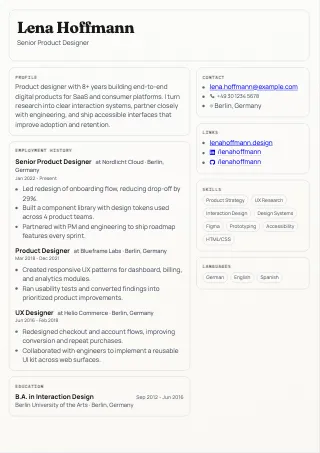
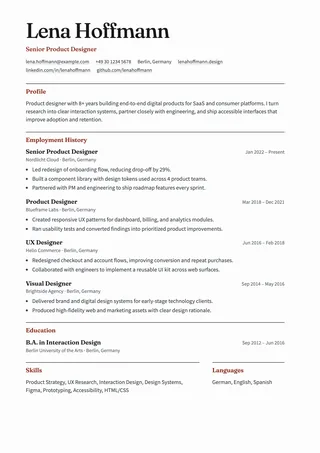
Add a fourth job to the sample and re-render the thumbnails
The rebuilt templates have room for it, and the sample no longer leaves a third
of the page empty in most of them.

Changed region(s): [[0.0312, 0.0309, 0.9375, 0.8962], [0.6562, 0.8035, 0.8438, 0.8653], [0.75, 0.7417, 0.9062, 0.7726]]

diff --git a/js/sample-state.js b/js/sample-state.js
@@ -53,6 +53,16 @@ export function createSampleStateBuilders({ getState, sanitizeResumeState }) {
           isCollapsed: true,
           bullets:
             "Redesigned checkout and account flows, improving conversion and repeat purchases.\nCollaborated with engineers to implement a reusable UI kit across web surfaces."
+        },
+        {
+          role: "Visual Designer",
+          company: "Brightside Agency",
+          location: "Berlin, Germany",
+          start: "Sep 2014",
+          end: "May 2016",
+          isCollapsed: true,
+          bullets:
+            "Delivered brand and digital design systems for early-stage technology clients.\nProduced high-fidelity web and marketing assets with clear design rationale."
         }
       ],
       education: [
